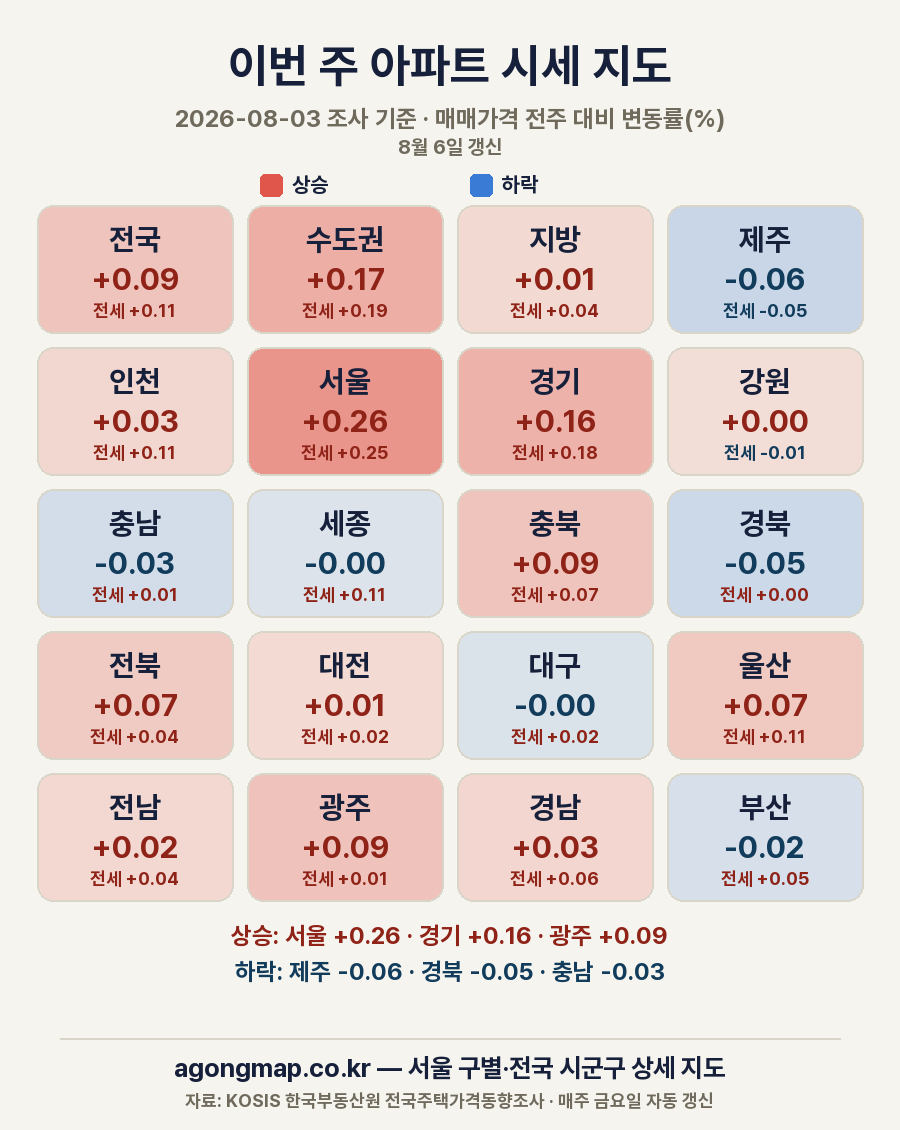
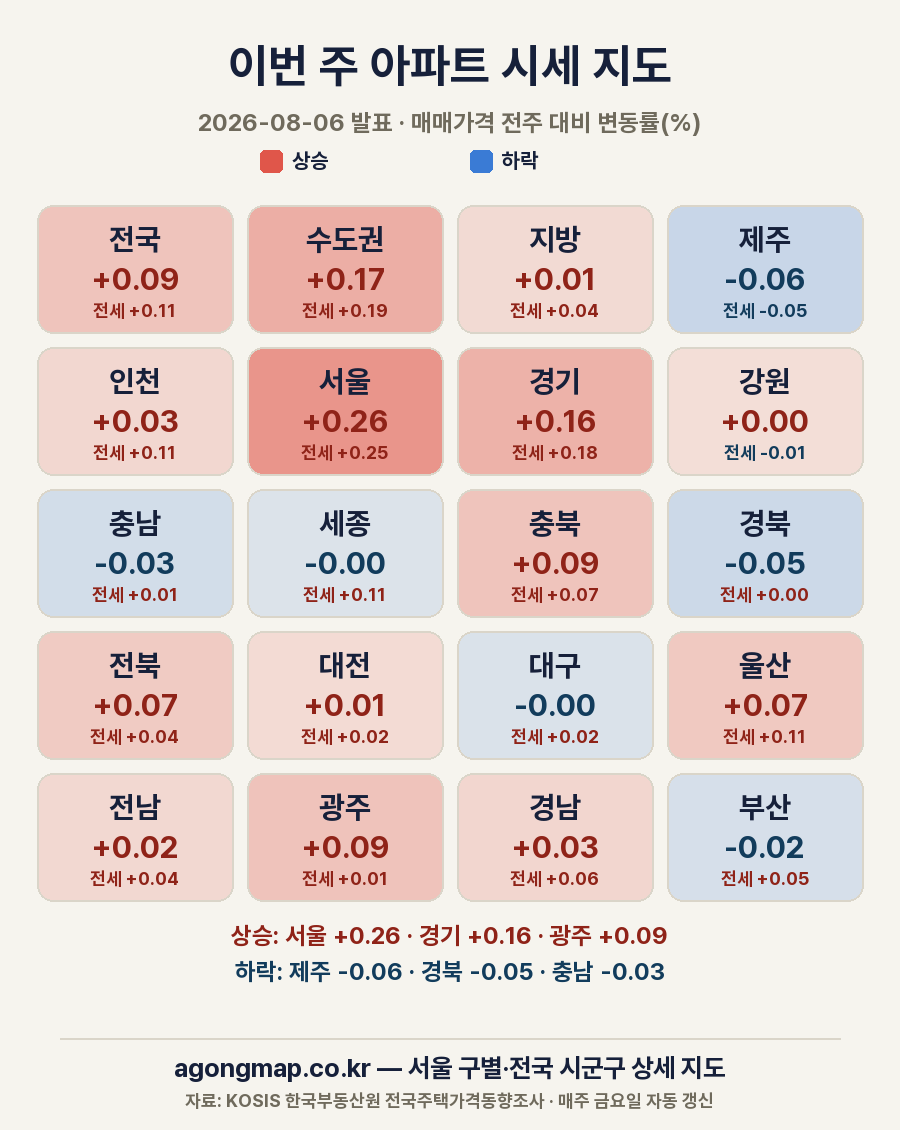
공유 카드 날짜를 조사기준일에서 발표일로 (2b06cee의 두 줄 병기를 한 줄로)
이전: 2026-08-03 조사 기준 · … / 8월 6일 갱신   (두 줄)
  지금: 2026-08-06 발표 · 매매가격 전주 대비 변동률(%)

직전 커밋에서 나는 '조사기준일을 갱신일로 바꾸면 숫자의 시점을 잘못 말하게
된다'며 병기로 우회했는데, 사용자 지적대로 **발표일로 부르면 그 자체가 정확한
사실**이다(부동산원 주간동향은 월요일 조사·목요일 공표). 한 줄이면 충분하고
사람들이 인식하는 이름이기도 하다. 병기는 과했다.

⚠ 발표일을 **오늘 날짜로 찍지 않는다.** 배치가 하루 늦게 돌면 발표일이 아닌 날을
발표일로 적게 된다. 데이터의 조사기준일에서 +3일로 유도해 언제 구워도 같은 값이
나오게 했다(_pubdate). 신선도 판별 목적도 그대로 산다 — 카드가 멈추면 이 날짜가
안 움직인다.

공휴일이 끼면 공표가 하루 밀리는 주가 있는데 그건 원천 일정이라 우리가 알 수
없다. 통상 일정으로 적고, 어긋나도 하루 차이라 신선도 판별에는 지장이 없다.

범례는 24px 되돌려 원위치.

Changed region(s): [[0.1867, 0.0929, 0.8089, 0.1858]]

diff --git a/tools/make_weekly_share.py b/tools/make_weekly_share.py
@@ -13,8 +13,15 @@ ROOT = os.path.dirname(os.path.dirname(os.path.abspath(__file__)))
 sys.path.insert(0, os.path.join(ROOT, 'tools'))
 from make_beginner_cards import noto  # noqa: E402
 
-def _kdate(d):
-    return '%d월 %d일' % (d.month, d.day)
+def _pubdate(basis):
+    """조사기준일(월요일 'YYYY-MM-DD') -> 부동산원 공표일(그 주 목요일).
+
+    주간 아파트가격동향은 월요일 조사·목요일 공표라 +3일이면 맞는다. 공휴일이
+    끼면 하루씩 밀리는 주가 있는데, 그건 원천 공표 일정이라 우리가 알 수 없다 —
+    통상 일정으로 적고, 어긋나도 하루 차이라 신선도 판별에는 지장이 없다.
+    """
+    y, m, d = (int(x) for x in basis.split('-'))
+    return (datetime.date(y, m, d) + datetime.timedelta(days=3)).isoformat()
 
 
 INK = (22, 32, 58)
@@ -65,20 +72,19 @@ def main():
 
     # 헤더
     d.text((IW // 2, 66), '이번 주 아파트 시세 지도', font=noto(46), fill=INK, anchor='mm')
-    # 조사기준일(월)과 갱신일(=공표 후 배치가 받아온 날)을 **함께** 적는다.
-    # 조사기준일만 적으면 카드가 멈춰도 신선한지 묵은 건지 알 방법이 없다 —
-    # 실제로 2026-07-18 카드가 3주간 '이번 주'로 나가고 있었다(2026-08-06 발견).
-    # 조사기준일을 갱신일로 바꾸는 건 안 된다: 이 변동률이 측정한 시점은 월요일이고
-    # 부동산원 공식 표기도 조사기준일이다. 바꾸면 숫자의 시점을 잘못 말하게 된다.
-    d.text((IW // 2, 118), '%s 조사 기준 · 매매가격 전주 대비 변동률(%%)' % row['p'],
+    # 조사기준일(월)이 아니라 **발표일(목)**을 적는다(2026-08-06 사용자).
+    # 둘 다 사실이지만 발표일 하나로 충분하다 — 사람들이 '몇 월 며칠 발표된
+    # 주간시세'로 인식하고, 카드가 멈추면 이 날짜가 안 움직여 신선도까지 드러난다
+    # (실제로 2026-07-18 카드가 3주간 '이번 주'로 나갔다).
+    # ⚠ 오늘 날짜를 쓰지 않는다. 배치가 하루 늦게 돌면 발표일이 아닌 날을 발표일로
+    # 적게 된다. 데이터의 조사기준일에서 유도해야 언제 구워도 같은 값이 나온다.
+    d.text((IW // 2, 122), '%s 발표 · 매매가격 전주 대비 변동률(%%)' % _pubdate(row['p']),
            font=noto(24), fill=MUTED, anchor='mm')
-    d.text((IW // 2, 146), '%s 갱신' % _kdate(datetime.date.today()),
-           font=noto(20), fill=MUTED, anchor='mm')
     # 범례
-    d.rounded_rectangle((IW // 2 - 190, 174, IW // 2 - 168, 196), 5, fill=UP)
-    d.text((IW // 2 - 158, 185), '상승', font=noto(21), fill=INK, anchor='lm')
-    d.rounded_rectangle((IW // 2 + 20, 174, IW // 2 + 42, 196), 5, fill=DN)
-    d.text((IW // 2 + 52, 185), '하락', font=noto(21), fill=INK, anchor='lm')
+    d.rounded_rectangle((IW // 2 - 190, 150, IW // 2 - 168, 172), 5, fill=UP)
+    d.text((IW // 2 - 158, 161), '상승', font=noto(21), fill=INK, anchor='lm')
+    d.rounded_rectangle((IW // 2 + 20, 150, IW // 2 + 42, 172), 5, fill=DN)
+    d.text((IW // 2 + 52, 161), '하락', font=noto(21), fill=INK, anchor='lm')
 
     # 타일 지도 (4열)
     TW, TH, G = 196, 128, 14
